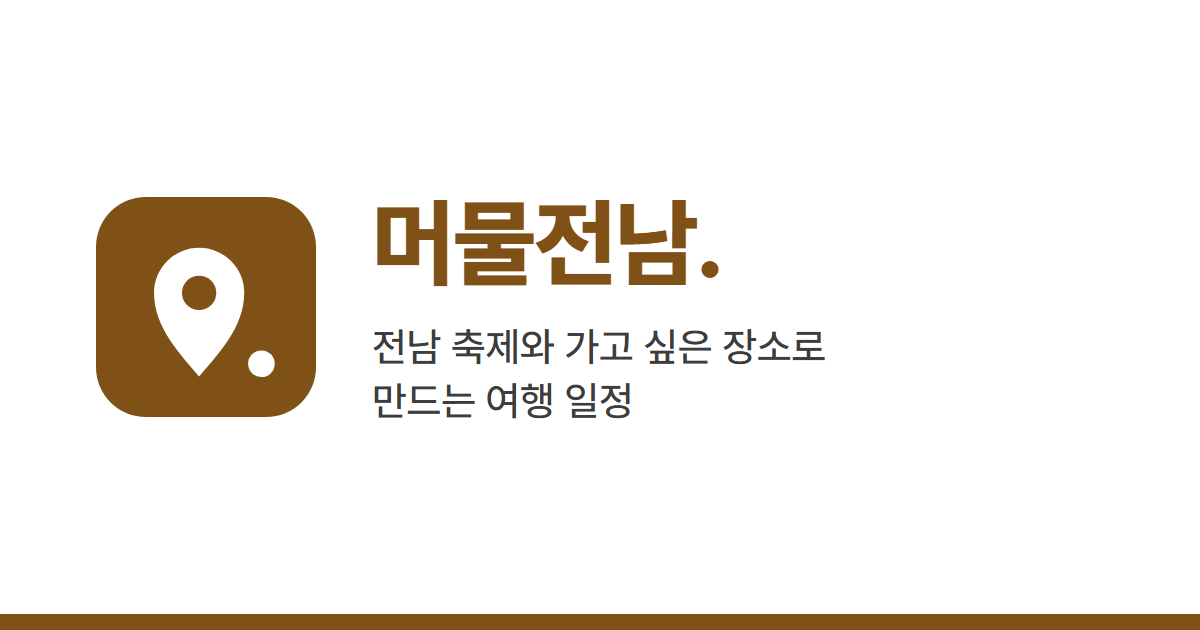
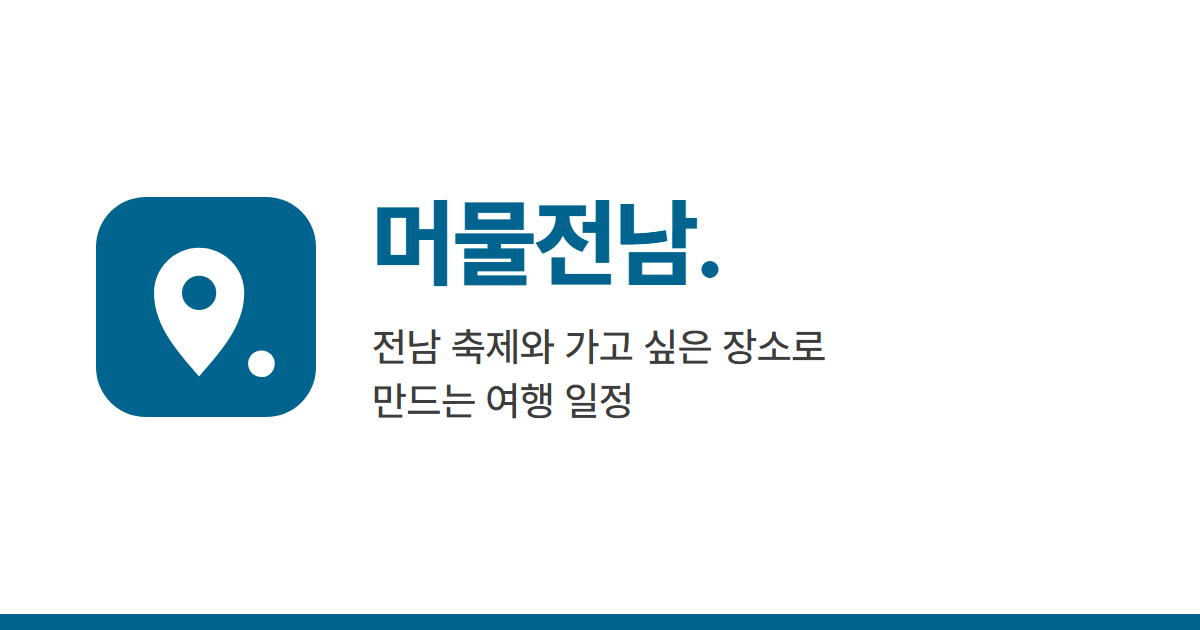
style(brand): switch the primary color to Mokpo blue #00648f
Tokens (light and dark), theme-color, manifest, logo source, favicon,
app icons and OG image now use #00648f instead of the seed brown.

Changed region(s): [[0.0617, 0.3016, 0.2775, 0.6635], [0.0, 0.9651, 1.0, 1.0], [0.3083, 0.3016, 0.6167, 0.4524]]

diff --git a/web-assets/og-template/og.html b/web-assets/og-template/og.html
@@ -8,7 +8,7 @@
         src: url("../../public/fonts/PretendardVariable.woff2") format("woff2-variations");
         font-weight: 45 920;
       }
-      /* 색은 src/styles/tokens.css와 일치: --primary #805117, --background #ffffff */
+      /* 색은 src/styles/tokens.css와 일치: --primary #00648f, --background #ffffff */
       html,
       body {
         margin: 0;
@@ -24,7 +24,7 @@
         background: #ffffff;
         font-family: "Pretendard Variable", sans-serif;
         color: #1a1a1a;
-        border-bottom: 16px solid #805117;
+        border-bottom: 16px solid #00648f;
       }
       img {
         width: 220px;
@@ -36,7 +36,7 @@
         font-size: 96px;
         font-weight: 800;
         letter-spacing: -2px;
-        color: #805117;
+        color: #00648f;
       }
       p {
         margin: 0;

diff --git a/src/styles/tokens.css b/src/styles/tokens.css
@@ -24,7 +24,7 @@
    * 기본값은 의도적 무채색 플레이스홀더 — 설치 H단계에서 반드시 브랜드색으로 치환한다
    * (소스 "없음"이어도 브랜드색 질문 필수). 보라·인디고·기본 블루를 기본값으로 두면
    * 모든 프로젝트가 "AI가 만든 티"가 나는 색으로 시작한다 (rules.md § 팔레트 정량 상한). */
-  --primary: oklch(0.475 0.095 65); /* #805117 황토 갈색 — 시드 브랜드색 */
+  --primary: oklch(0.477 0.104 236.7); /* #00648f 목포 색 — 브랜드색 (2026-10-27 확정) */
   --primary-foreground: oklch(0.985 0 0);
 
   /* ── 표면 ──
@@ -91,7 +91,7 @@
 }
 
 .dark {
-  --primary: oklch(0.74 0.11 68);
+  --primary: oklch(0.74 0.1 236.7);
   --primary-foreground: oklch(0.205 0 0);
 
   --background: oklch(0.145 0 0);

diff --git a/index.html b/index.html
@@ -17,7 +17,7 @@
     <link rel="icon" href="/favicon.svg" type="image/svg+xml" />
     <link rel="apple-touch-icon" href="/apple-touch-icon.png" />
     <link rel="manifest" href="/manifest.webmanifest" />
-    <meta name="theme-color" content="#805117" />
+    <meta name="theme-color" content="#00648f" />
 
     <!-- OG (카카오톡·슬랙 미리보기 — og:image는 절대 URL 필수) -->
     <meta property="og:title" content="머물전남." />

diff --git a/docs/setup-checklist.md b/docs/setup-checklist.md
@@ -48,7 +48,7 @@
 
 ## 3. 디자인 시스템
 
-- [x] **D1** 브랜드 주조색이 `tokens.css`에 반영됨 (기본 무채색 플레이스홀더 아님) — 소스: `없음(시드) #805117 황토 갈색` — 갑 제공 브랜드 가이드 수령 시 교체
+- [x] **D1** 브랜드 주조색이 `tokens.css`에 반영됨 (기본 무채색 플레이스홀더 아님) — 소스: 목포 색 `#00648f` (2026-10-27 사용자 지정)
 - [x] **D2** 명도 대비 테스트 통과 — `npx vitest run src/styles` (배경/글자 쌍 4.5:1, 라이트·다크)
 - [x] **D3** 아이콘 스타일 가이드 승인 + 기본 세트 13종 (`src/components/icons/README.md`), `grep -rn "lucide-react" src` 0줄
 - [ ] **D4** `docs/DESIGN.md` — 톤·화면 원칙 (없으면 첫 화면 작업 전에 작성)

diff --git a/docs/DESIGN.md b/docs/DESIGN.md
@@ -14,7 +14,7 @@
 
 | 항목 | 값 |
 |---|---|
-| 주조색 | `--primary` 황토 갈색(#805117 시드). 주요 버튼·선택 상태·현재 일차에만 쓴다 |
+| 주조색 | `--primary` 목포 색(#00648f). 주요 버튼·선택 상태·현재 일차에만 쓴다 |
 | 배경 | 흰색 `bg-background` 기본, 구역 구분은 `bg-background-subtle`만 |
 | 상태색 | 충돌 = destructive, 확인 필요 = warning, 확정 = success. 색만으로 전달하지 않고 항상 문구를 붙인다 |
 | 서체 | Pretendard(`--font-sans`). 제목 text-lg~xl semibold, 본문 text-sm~base, 보조 text-xs 이상 |
